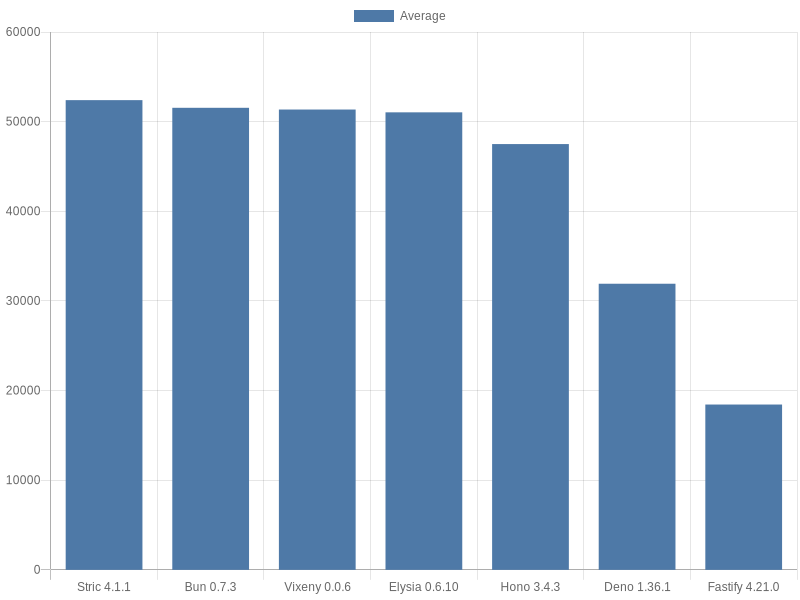
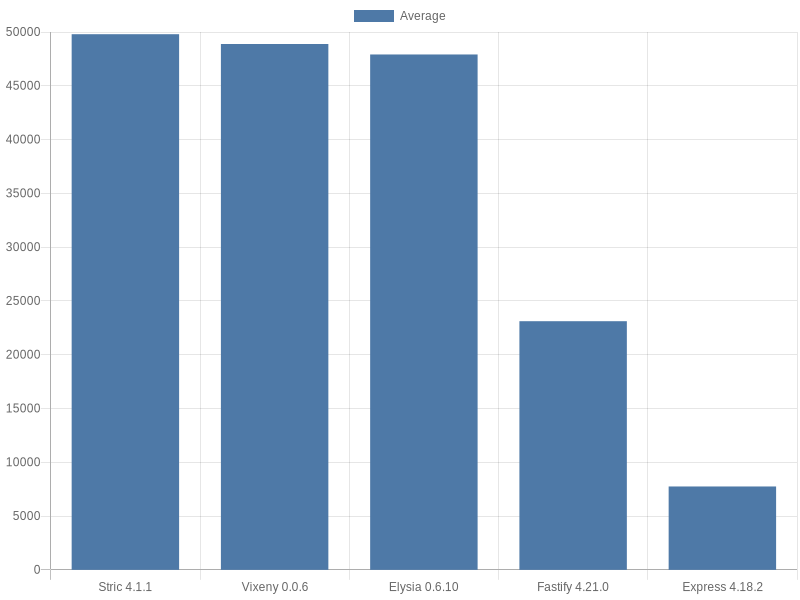
Update

diff --git a/config.ts b/config.ts
@@ -7,7 +7,7 @@ export const rootDir = import.meta.dir;
 
 export default {
     // For JSC optimizations
-    boot: 5000,
+    boot: 2000,
     tests: [
         {
             path: '/',
@@ -28,7 +28,7 @@ export default {
             expect: {
                 body: `${randomNum} ${randomString}`
             },
-            description: 'Should return the `id` parameter value and the query value, for example `1 a` when the request path is `/id/1?name=a`.' 
+            description: 'Should return the `id` parameter value and the query value, for example `1 a` when the request path is `/id/1?name=a`.'
         },
         {
             path: '/a/b',
@@ -44,15 +44,15 @@ export default {
             headers: {
                 'Content-Type': 'application/json'
             },
-            expect: { 
+            expect: {
                 body: JSON.stringify(body),
                 headers: {
                     // Works for all the framework that tried to put a freaking space between ; and charset
                     'Content-Type': [
-                        'application/json', 
-                        'application/json;charset=utf-8', 
-                        'application/json;charset=UTF-8', 
-                        'application/json; charset=utf-8', 
+                        'application/json',
+                        'application/json;charset=utf-8',
+                        'application/json;charset=UTF-8',
+                        'application/json; charset=utf-8',
                         'application/json; charset=UTF-8'
                     ]
                 }
@@ -65,8 +65,8 @@ export default {
         { file: 'detail.ts' }
     ],
     command: {
-        connections: 1500,
-        duration: '30s',
+        connections: 1000,
+        duration: '25s',
         fasthttp: true,
         timeout: '10s'
     },

diff --git a/src/Express/index.js b/src/Express/index.js
@@ -1,0 +1,12 @@
+const express = require('express');
+const json = { 'Content-Type': 'application/json' };
+
+express()
+    .get('/', (_, res) => res.end('Hi'))
+    .get('/api/hi', (_, res) => res.end('Welcome'))
+    .get('/id/:id', (req, res) => res.end(req.params.id + ' ' + req.query.name))
+    .post('/api/json', express.json(), (req, res) => {
+        res.writeHead(200, json);
+        res.end(JSON.stringify(req.body));
+    })
+    .listen(3000);

diff --git a/results/index.md b/results/index.md
@@ -1,6 +1,6 @@
 Bun: 0.7.3
 
-Tested at: 13:05, August 20th, 2023
+Tested at: 13:35, August 21st, 2023
 
 ## OS Details
 - Cores: 8
@@ -13,25 +13,23 @@ Tested at: 13:05, August 20th, 2023
 Should return `Hi` as a response.
 ### GET `/api/hi`
 Should return `Welcome` as a response.
-### GET `/id/94?name=nn8`
+### GET `/id/55?name=BAB`
 Should return the `id` parameter value and the query value, for example `1 a` when the request path is `/id/1?name=a`.
 ### GET `/a/b`
 Should return a response with `404` status code.
 ### POST `/api/json`
 Return the request body with `Content-Type` set to `application/json`.
 ### Info
-- Connections: 1500
-- Duration: 30s
+- Connections: 1000
+- Duration: 25s
 - Using `fasthttp`: `true`
 - Results are measured in requests per second.
 
 ## Results
-| Name | Average | GET `/` | GET `/api/hi` | GET `/id/18?name=J3h` | GET `/a/b` | POST `/api/json` |
+| Name | Average | GET `/` | GET `/api/hi` | GET `/id/0?name=01U` | GET `/a/b` | POST `/api/json` |
 |  :---: | :---: | :---: | :---: | :---: | :---: | :---: |
-| [Stric 4.1.1](/results/Stric) | 52397.40 | 54833.42 | 53338.12 | 51159.38 | 53600.10 | 49055.97 |
-| [Bun 0.7.3](/results/Bun) | 51540.82 | 54926.19 | 52573.49 | 48596.64 | 52855.37 | 48752.42 |
-| [Vixeny 0.0.6](/results/Vixeny) | 51353.17 | 54359.93 | 52610.87 | 50251.53 | 50921.25 | 48622.25 |
-| [Elysia 0.6.10](/results/Elysia) | 51037.95 | 53862.94 | 52177.78 | 50902.07 | 51168.74 | 47078.21 |
-| [Hono 3.4.3](/results/Hono) | 47501.07 | 53053.92 | 51381.67 | 44208.88 | 45965.26 | 42895.63 |
-| [Deno 1.36.1](/results/Deno) | 31914.24 | 33461.94 | 33389.49 | 30785.98 | 38414.16 | 23519.62 |
-| [Fastify 4.21.0](/results/Fastify) | 18442.54 | 19860.29 | 20168.77 | 19135.39 | 17529.74 | 15518.49 |
+| [Stric 4.1.1](/results/main/Stric) | 49798.46 | 52130.91 | 50632.17 | 48165.28 | 51362.53 | 46701.43 |
+| [Vixeny 0.0.6](/results/main/Vixeny) | 48885.09 | 51399.58 | 49718.50 | 47950.19 | 48687.50 | 46669.70 |
+| [Elysia 0.6.10](/results/main/Elysia) | 47909.02 | 50401.06 | 48992.43 | 46767.69 | 47765.02 | 45618.88 |
+| [Fastify 4.21.0](/results/main/Fastify) | 23112.15 | 25499.25 | 25303.64 | 24457.51 | 22472.76 | 17827.59 |
+| [Express 4.18.2](/results/main/Express) | 7753.88 | 8892.44 | 8708.15 | 8281.25 | 6892.88 | 5994.68 |

diff --git a/README.md b/README.md
@@ -50,13 +50,13 @@ See [configuration file](/config.ts) and the [type declarations](/lib/types.ts).
 ### Chart
 ![Chart](/results/chart.png)
 
-### Table
-| Name | Average | GET `/` | GET `/api/hi` | GET `/id/18?name=J3h` | GET `/a/b` | POST `/api/json` |
+### Table 
+
+
+| Name | Average | GET `/` | GET `/api/hi` | GET `/id/0?name=01U` | GET `/a/b` | POST `/api/json` |
 |  :---: | :---: | :---: | :---: | :---: | :---: | :---: |
-| [Stric 4.1.1](/results/main/Stric) | 52397.40 | 54833.42 | 53338.12 | 51159.38 | 53600.10 | 49055.97 |
-| [Bun 0.7.3](/results/main/Bun) | 51540.82 | 54926.19 | 52573.49 | 48596.64 | 52855.37 | 48752.42 |
-| [Vixeny 0.0.6](/results/main/Vixeny) | 51353.17 | 54359.93 | 52610.87 | 50251.53 | 50921.25 | 48622.25 |
-| [Elysia 0.6.10](/results/main/Elysia) | 51037.95 | 53862.94 | 52177.78 | 50902.07 | 51168.74 | 47078.21 |
-| [Hono 3.4.3](/results/main/Hono) | 47501.07 | 53053.92 | 51381.67 | 44208.88 | 45965.26 | 42895.63 |
-| [Deno 1.36.1](/results/main/Deno) | 31914.24 | 33461.94 | 33389.49 | 30785.98 | 38414.16 | 23519.62 |
-| [Fastify 4.21.0](/results/main/Fastify) | 18442.54 | 19860.29 | 20168.77 | 19135.39 | 17529.74 | 15518.49 |
+| [Stric 4.1.1](/results/main/Stric) | 49798.46 | 52130.91 | 50632.17 | 48165.28 | 51362.53 | 46701.43 |
+| [Vixeny 0.0.6](/results/main/Vixeny) | 48885.09 | 51399.58 | 49718.50 | 47950.19 | 48687.50 | 46669.70 |
+| [Elysia 0.6.10](/results/main/Elysia) | 47909.02 | 50401.06 | 48992.43 | 46767.69 | 47765.02 | 45618.88 |
+| [Fastify 4.21.0](/results/main/Fastify) | 23112.15 | 25499.25 | 25303.64 | 24457.51 | 22472.76 | 17827.59 |
+| [Express 4.18.2](/results/main/Express) | 7753.88 | 8892.44 | 8708.15 | 8281.25 | 6892.88 | 5994.68 |
